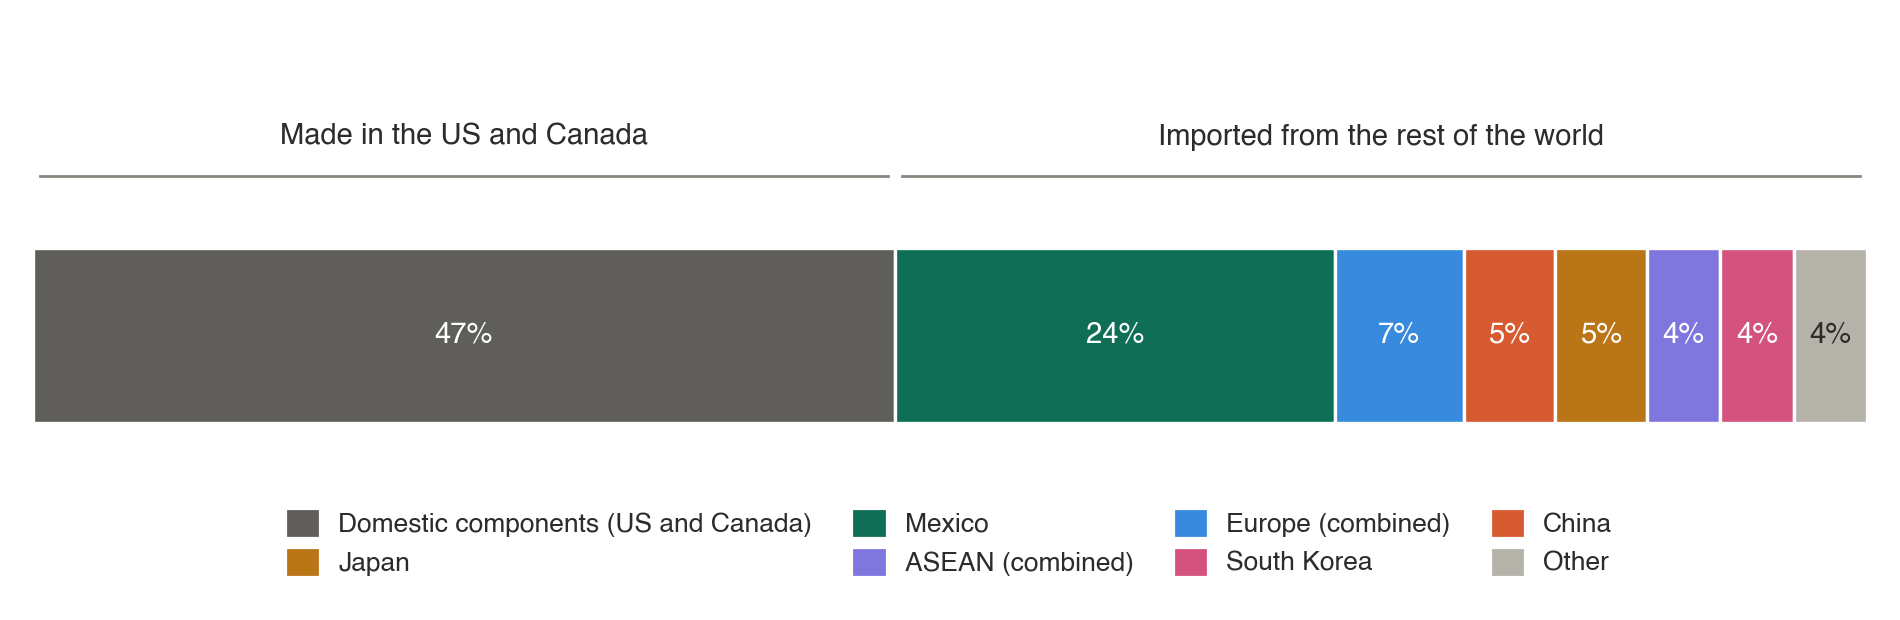
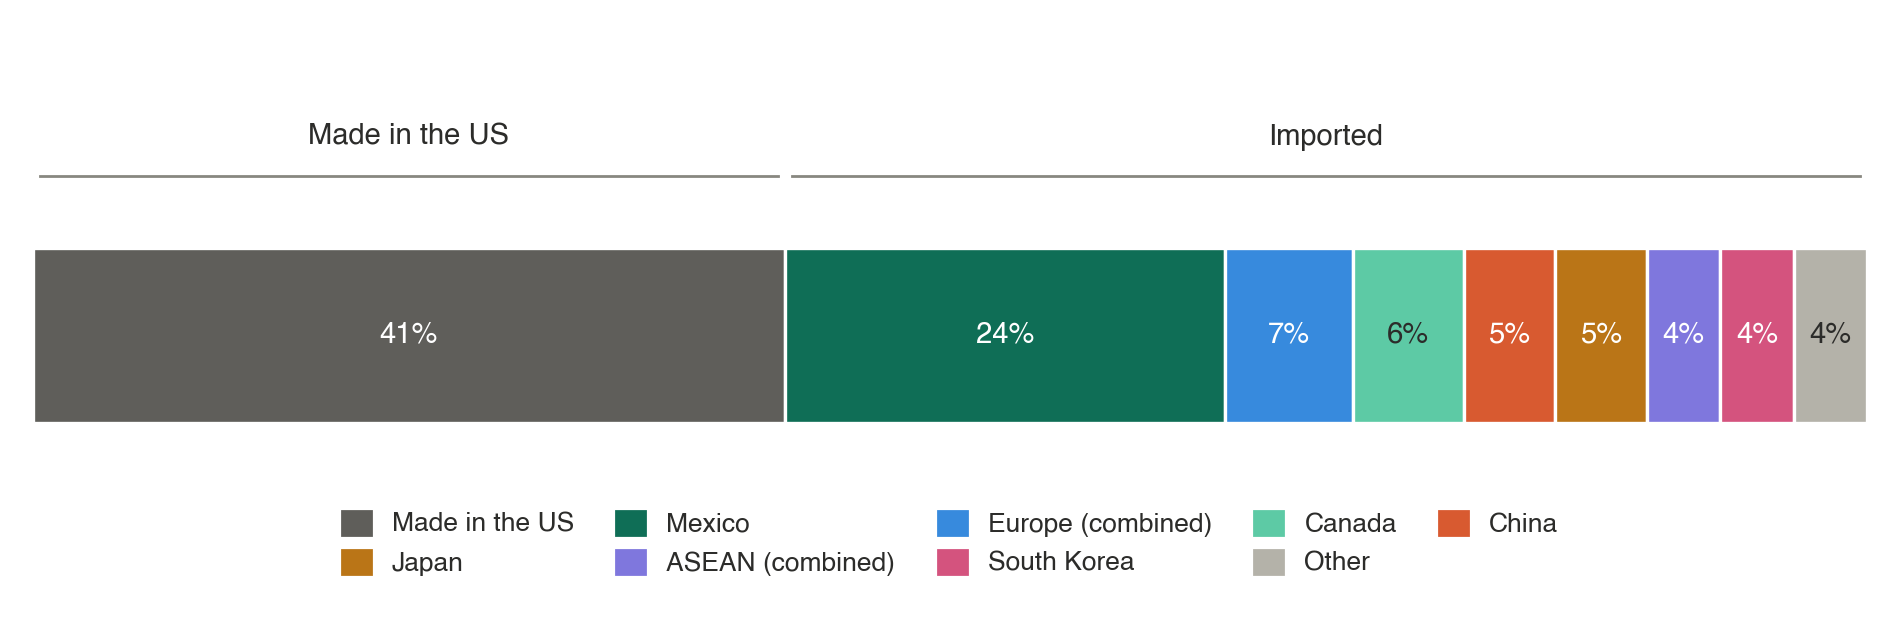
docs(releases): separate the US from Canada in the light-truck component chart
The AALA data reports US and Canadian content together, so Canada is estimated
from its 10% share of US auto parts imports (about 6% of components), leaving
about 41% made in the US. The caption states the method and its limits.

diff --git a/figures/scripts/rc_figures.py b/figures/scripts/rc_figures.py
@@ -9,13 +9,14 @@ background, no title and no source line on the image (those live in the figure c
   battery type is read off the slide graphic, so it is approximate.
 - rc-germany-power.png: Germany's power factor, share of the change from a cleaner grid vs prices.
 - rc-us-parts-imports.png: estimated origin of the components of a US-assembled light truck, as one
-  stacked bar. Domestic share (US and Canada) = 47%, the unweighted mean of the NHTSA AALA parts
-  content for 87 US-assembled light trucks, model year 2025 (as compiled on Wikipedia,
-  "List of automobiles manufactured in the United States"; ranges taken at their midpoint). The
-  remaining 53% is split by origin using the 2024 mix of US auto parts imports (International Trade
-  Administration data as reported by MNI, March 2025) with Canada removed and the rest rescaled. The
-  mix covers parts for all vehicle types, Europe and ASEAN are combined regions in the source, and
-  "Other" is the remainder; so the split is indicative, not a measurement for this sector.
+  stacked bar. US + Canada together = 47%, the unweighted mean of the NHTSA AALA parts content for 87
+  US-assembled light trucks, model year 2025 (as compiled on Wikipedia, "List of automobiles
+  manufactured in the United States"; ranges at their midpoint). The AALA data does not separate the
+  US from Canada, so Canada is estimated: it supplies 10% of US auto parts imports (International Trade
+  Administration data as reported by MNI, March 2025), so with total imports I (incl. Canada),
+  Canada = 0.10 * I and the rest of the world = 0.90 * I = 53%, giving I = 58.9%, Canada = 5.9% and
+  the US = 47% - 5.9% = 41.1%. The other origins use the same 2024 import mix (parts for all vehicle
+  types; Europe and ASEAN are combined regions in the source; Other is the remainder). Indicative only.
 
 Run from the repo root (needs matplotlib):
     uv run --with matplotlib python figures/scripts/rc_figures.py
@@ -116,44 +117,57 @@ def germany():
 
 
 def parts_origin():
-    domestic = 47.0                       # US and Canadian content, mean of 87 light trucks (AALA, MY2025)
-    imports = 100 - domestic
-    mix = [("Mexico", 41.0), ("Europe (combined)", 11.9), ("China", 9.3), ("Japan", 8.0),
+    us_canada = 47.0                       # US and Canadian content, mean of 87 light trucks (AALA, MY2025)
+    mix = [("Mexico", 41.0), ("Europe (combined)", 11.9), ("Canada", 10.0), ("China", 9.3), ("Japan", 8.0),
            ("ASEAN (combined)", 7.0), ("South Korea", 6.4)]
-    mix.append(("Other", 100 - 10.0 - sum(v for _, v in mix)))   # 10.0 = Canada, removed below
-    total = sum(v for _, v in mix)         # 90.0: shares of parts imports excluding Canada
-    raw = [(n, imports * v / total) for n, v in mix]
-    # round to whole percentages that sum to 100 (largest remainder)
-    parts = [("Domestic components\n(US and Canada)", domestic)] + raw
+    mix.append(("Other", 100 - sum(v for _, v in mix)))            # remainder of parts imports (6.4%)
+    canada_share = dict(mix)["Canada"] / 100
+    rest_of_world = 100 * (1 - canada_share) * 0 + sum(v for n, v in mix if n != "Canada")  # 90.0
+    imports_total = (100 - us_canada) / (rest_of_world / 100)     # imports incl. Canada, as % of components
+    raw = [(n, imports_total * v / 100) for n, v in mix]          # each origin's share of components
+    us = us_canada - dict(raw)["Canada"]
+    parts = [("Made in the US", us)] + raw
     floors = [int(v) for _, v in parts]
     order = sorted(range(len(parts)), key=lambda i: parts[i][1] - floors[i], reverse=True)
     for i in order[: 100 - sum(floors)]:
         floors[i] += 1
-    colours = ["#5F5E5A", "#0F6E56", "#378ADD", "#D85A30", "#BA7517", "#7F77DD", "#D4537E", "#B4B2A9"]
-    dark_text = {7}
+    # draw order: US first, then imports by size
+    idx = [0] + sorted(range(1, len(parts)), key=lambda i: (-floors[i], i))
+    parts = [parts[i] for i in idx]; floors = [floors[i] for i in idx]
+    palette = {"Made in the US": "#5F5E5A", "Mexico": "#0F6E56", "Canada": "#5DCAA5", "Europe (combined)": "#378ADD",
+               "China": "#D85A30", "Japan": "#BA7517", "ASEAN (combined)": "#7F77DD", "South Korea": "#D4537E",
+               "Other": "#B4B2A9"}
+    dark_text = {"Canada", "Other"}
     fig, ax = plt.subplots(figsize=(9.5, 3.1), dpi=200)
     left = 0
     handles = []
-    for i, ((name, _), pct) in enumerate(zip(parts, floors)):
-        ax.barh(0, pct, left=left, color=colours[i], height=0.55, edgecolor="white", linewidth=1.2)
+    for (name, _), pct in zip(parts, floors):
+        ax.barh(0, pct, left=left, color=palette[name], height=0.55, edgecolor="white", linewidth=1.2)
         ax.text(left + pct / 2, 0, f"{pct}%", ha="center", va="center", fontsize=10.5, fontweight="medium",
-                color=INK if i in dark_text else "white")
-        handles.append(plt.Rectangle((0, 0), 1, 1, color=colours[i]))
+                color=INK if name in dark_text else "white")
+        handles.append(plt.Rectangle((0, 0), 1, 1, color=palette[name]))
         left += pct
     d = floors[0]
-    for x0, x1, label in ((0, d, "Made in the US and Canada"), (d, 100, "Imported from the rest of the world")):
+    for x0, x1, label in ((0, d, "Made in the US"), (d, 100, "Imported")):
         ax.plot([x0 + 0.4, x1 - 0.4], [0.5, 0.5], color="#888780", lw=1)
         ax.text((x0 + x1) / 2, 0.58, label, ha="center", va="bottom", color=INK, fontsize=10.5)
     ax.set_xlim(0, 100); ax.set_ylim(-0.45, 0.95); ax.axis("off")
-    labels = [n.replace("\n", " ") for n, _ in parts]
-    row_major = [0, 4, 1, 5, 2, 6, 3, 7]      # matplotlib fills legend columns first; this reads in bar order
-    handles, labels = [handles[i] for i in row_major], [labels[i] for i in row_major]
-    ax.legend(handles, labels, loc="upper center", bbox_to_anchor=(0.5, -0.02), ncol=4, frameon=False,
-              fontsize=9.5, labelcolor=INK, columnspacing=1.6, handlelength=1.1, handleheight=1.0)
+    labels = [n for n, _ in parts]
+    n = len(labels); rows = (n + 4) // 5
+    cols = (n + rows - 1) // rows
+    order_rm = [r + c * rows for r in range(rows) for c in range(cols) if r + c * rows < n]
+    pad = [i for i in range(n) if i not in order_rm]
+    # matplotlib fills legend columns first; reorder so it reads in bar order across rows
+    grid = [[None] * cols for _ in range(rows)]
+    for k in range(n):
+        grid[k // cols][k % cols] = k
+    seq = [grid[r][c] for c in range(cols) for r in range(rows) if grid[r][c] is not None]
+    ax.legend([handles[i] for i in seq], [labels[i] for i in seq], loc="upper center", bbox_to_anchor=(0.5, -0.02),
+              ncol=cols, frameon=False, fontsize=9.5, labelcolor=INK, columnspacing=1.6, handlelength=1.1, handleheight=1.0)
     fig.tight_layout()
     fig.savefig(OUT / "rc-us-parts-imports.png", facecolor="white")
     plt.close(fig)
-    print("light-truck component origin (%):", dict(zip([n.replace("\n", " ") for n, _ in parts], floors)), "sum", sum(floors))
+    print("light-truck component origin (%):", dict(zip(labels, floors)), "sum", sum(floors), "| imports incl. Canada:", round(imports_total, 1))
 
 
 comparison(); china(); germany(); parts_origin()

diff --git a/releases/rc.md b/releases/rc.md
@@ -77,14 +77,14 @@ This data update lowers European factors by about 4% in median. The most signifi
 
 ### Incorporation of imports in the US
 
-USEEIO treated the US as a closed economy: every product used in the US was assumed to be made in the US. Cornerstone uses trade data to model each import in the country that produced it. Many imports come from more emissions-intensive economies such as China and India, so US factors tend to rise by 10 to 30% on average. This is the main upward pressure and the main reason for the change for USEEIO users. One example is light trucks and utility vehicles. The US factor rises by ~24.1%, mostly because many of their components are now modeled as imports from the countries that make them. Public data suggests that about half of the components of a US-assembled light truck are imported, with Mexico the largest source, followed by Europe and East Asia (see {numref}`rc-us-parts-imports`).
+USEEIO treated the US as a closed economy: every product used in the US was assumed to be made in the US. Cornerstone uses trade data to model each import in the country that produced it. Many imports come from more emissions-intensive economies such as China and India, so US factors tend to rise by 10 to 30% on average. This is the main upward pressure and the main reason for the change for USEEIO users. One example is light trucks and utility vehicles. The US factor rises by ~24.1%, mostly because many of their components are now modeled as imports from the countries that make them. Public data suggests that about 60% of the components of a US-assembled light truck are imported, with Mexico the largest source, followed by Europe and Canada (see {numref}`rc-us-parts-imports`).
 
 :::{figure} ../images/rc-us-parts-imports.png
 :label: rc-us-parts-imports
-:alt: One horizontal stacked bar showing the estimated origin of light-truck components. Domestic, US and Canada, 47%. Imports: Mexico 24%, Europe combined 7%, China 5%, Japan 5%, ASEAN combined 4%, South Korea 4%, other 4%.
+:alt: One horizontal stacked bar showing the estimated origin of light-truck components. Made in the US 41%. Imported: Mexico 24%, Europe combined 7%, Canada 6%, China 5%, Japan 5%, ASEAN combined 4%, South Korea 4%, other 4%.
 :width: 100%
 
-**Estimated origin of the components of a US-assembled light truck.** The domestic share is the average US and Canadian parts content of 87 light trucks assembled in the US, from the American Automobile Labeling Act data for model year 2025 (unweighted, ranges at their midpoint; the data does not separate the US from Canada). The import split applies the 2024 mix of US auto parts imports by origin, excluding Canada, to the imported share. That mix covers parts for all vehicle types, Europe and ASEAN are combined regions in the source, and Other is the remainder, so the split is indicative. Sources: [NHTSA AALA parts content data](https://www.nhtsa.gov/part-583-american-automobile-labeling-act-reports), as compiled on [Wikipedia](https://en.wikipedia.org/wiki/List_of_automobiles_manufactured_in_the_United_States); International Trade Administration data as reported by [MNI (March 2025)](https://www.mnimarkets.com/articles/us-auto-tariffs-impact-broad-based-across-regions-1743036084321).
+**Estimated origin of the components of a US-assembled light truck.** US and Canadian content together is 47%, the average of 87 light trucks assembled in the US, from the American Automobile Labeling Act data for model year 2025 (unweighted, ranges at their midpoint). That data does not separate the US from Canada, so Canada is estimated from its 10% share of US auto parts imports, which gives about 6% of components from Canada and 41% made in the US. The other origins apply the 2024 mix of US auto parts imports to the imported share. That mix covers parts for all vehicle types, Europe and ASEAN are combined regions in the source, and Other is the remainder, so the split is indicative. Sources: [NHTSA AALA parts content data](https://www.nhtsa.gov/part-583-american-automobile-labeling-act-reports), as compiled on [Wikipedia](https://en.wikipedia.org/wiki/List_of_automobiles_manufactured_in_the_United_States); International Trade Administration data as reported by [MNI (March 2025)](https://www.mnimarkets.com/articles/us-auto-tariffs-impact-broad-based-across-regions-1743036084321).
 :::
 
 ## How do the emission factors change?
